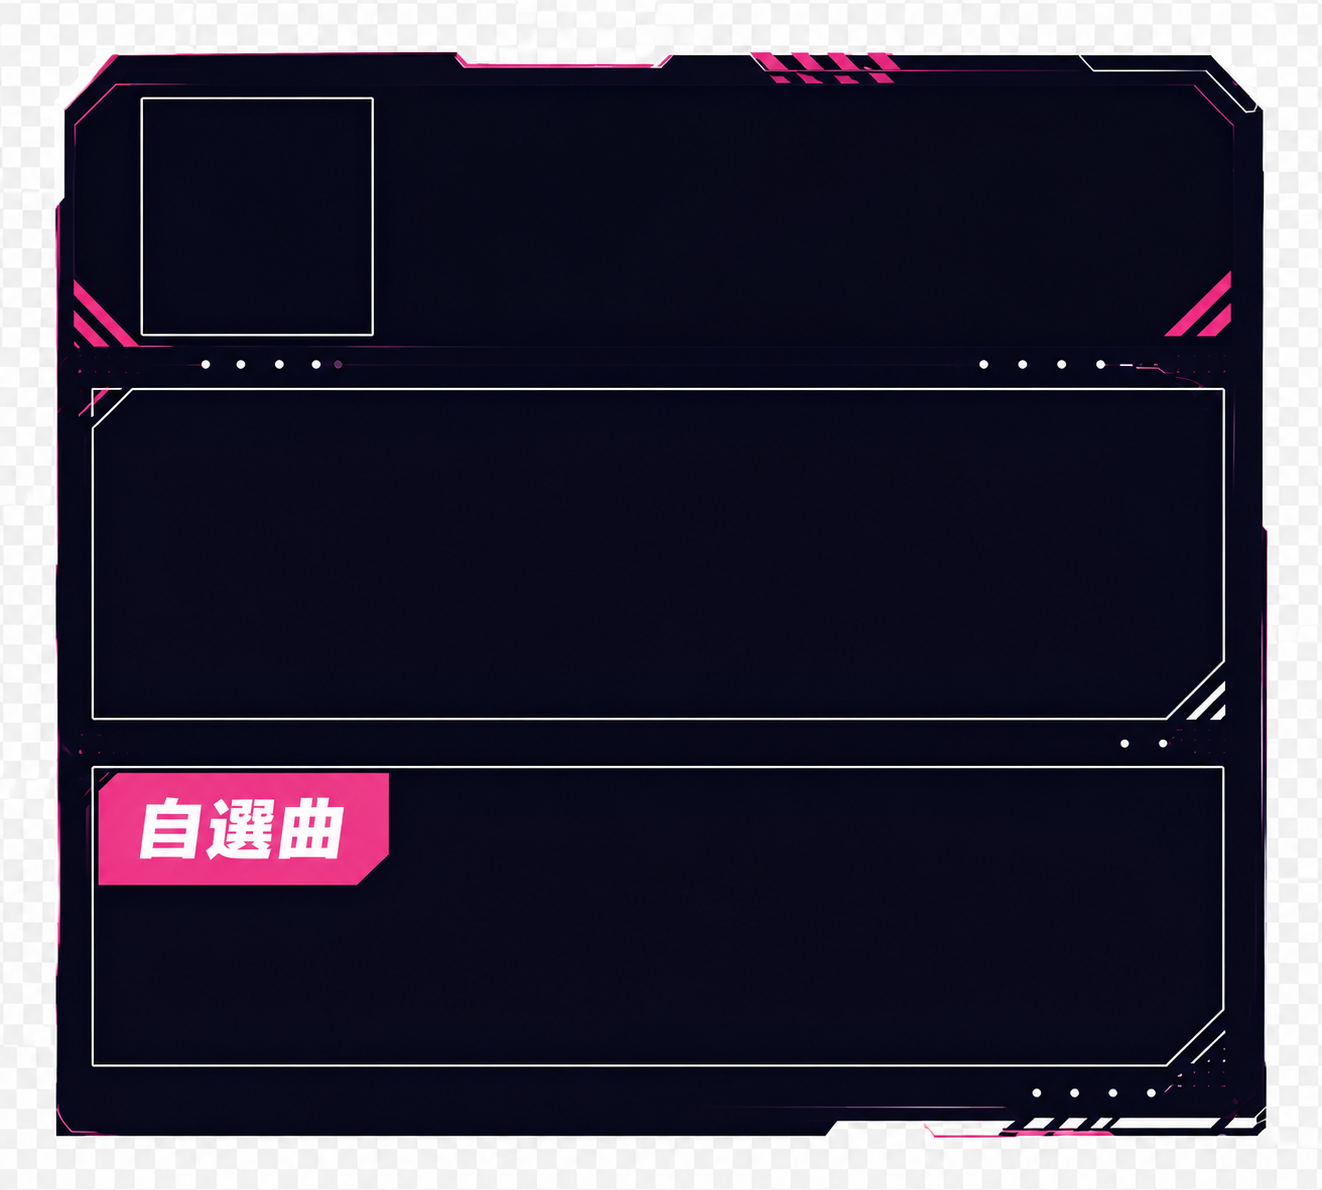
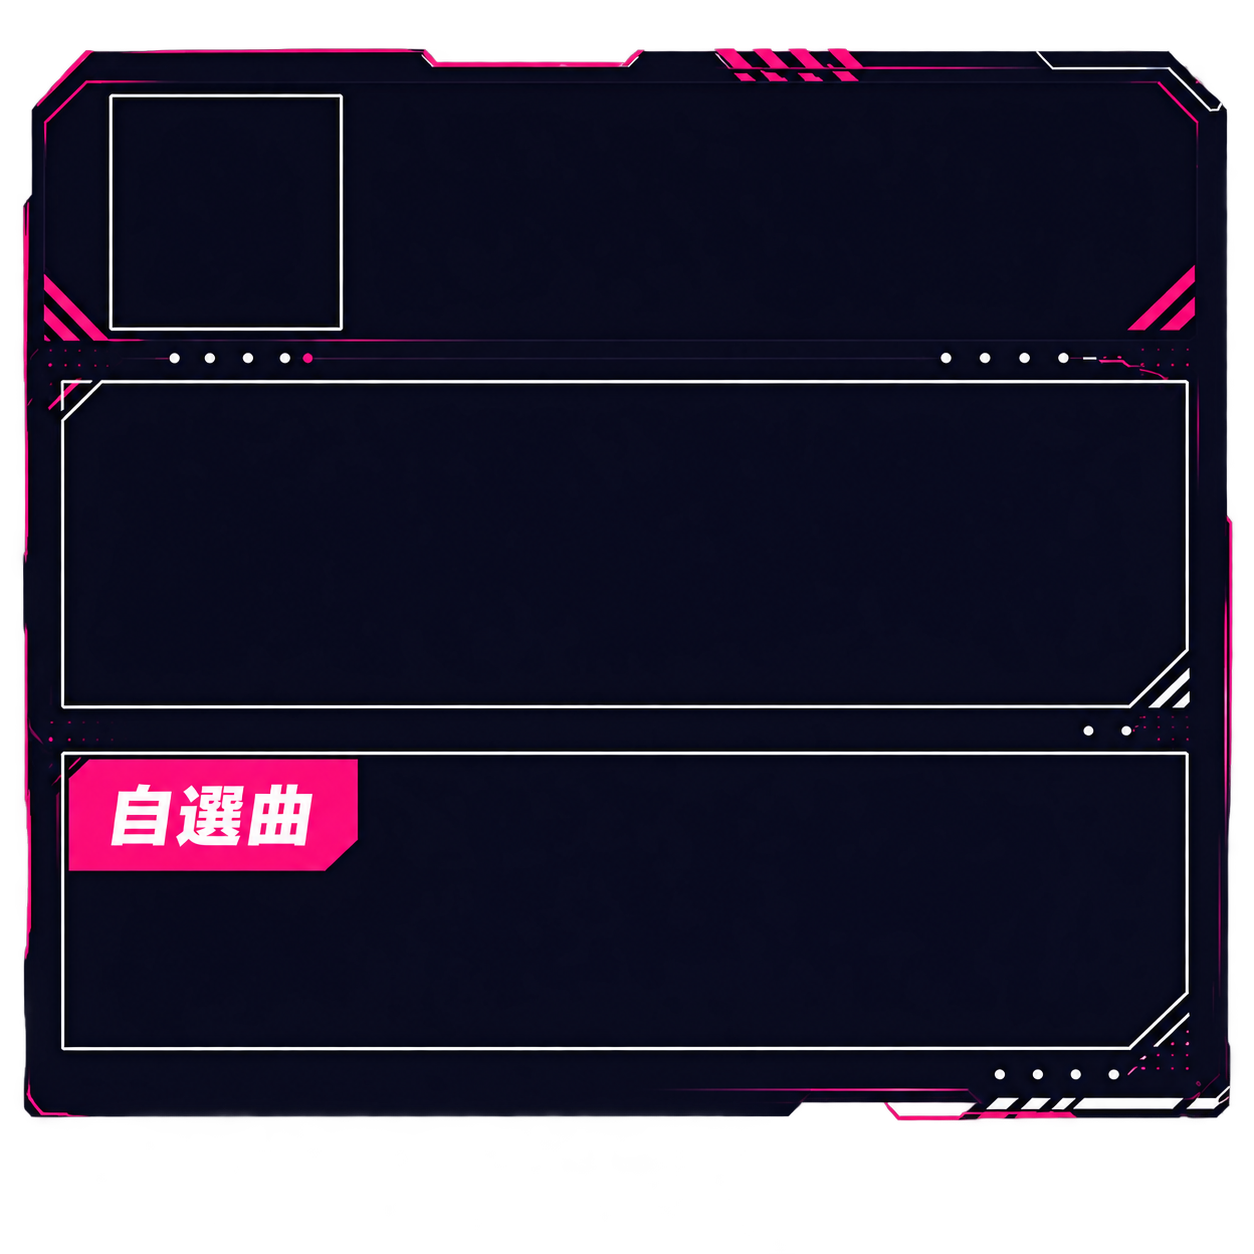
試合紹介画面デザインの修正

Changed region(s): [[0.0, 0.0311, 0.9952, 0.9639]]

diff --git a/src/components/RoundCard.tsx b/src/components/RoundCard.tsx
@@ -11,16 +11,8 @@ export function RoundCard({
     numCurrentDivision,
     numCurrentRound
 }: RoundCardProps) {
-    const tournamentName = tournament.name
-    const teamNameA = tournament.teamA.name
-    const teamNameB = tournament.teamB.name
-    const divisionTitle = tournament.divisions[numCurrentDivision].gameTitle
-    const currentRound = tournament.divisions[numCurrentDivision].rounds[numCurrentRound]
-    const roundName = currentRound.name
-    const namePlayerA = currentRound.playerA.name
-    const namePlayerB = currentRound.playerB.name
-    const songPlayerA = currentRound.playerA.song
-    const songPlayerB = currentRound.playerB.song
+    const division = tournament.divisions[numCurrentDivision]
+    const round = division.rounds[numCurrentRound]
 
     return (
         <div className="pt-12">
@@ -28,7 +20,7 @@ export function RoundCard({
                 bg-[url('/images/bg_cardname.png')] bg-contain bg-no-repeat
                 w-5xl aspect-[6/1] mx-auto flex items-center justify-center">
                 <p className="font-bold text-5xl text-center text-balance">
-                    {tournament.name} {divisionTitle}部門
+                    {tournament.name} {division.gameTitle}部門
                 </p>
             </div>
 
@@ -36,34 +28,42 @@ export function RoundCard({
                 bg-[url('/images/bg_cardname.png')] bg-contain bg-no-repeat
                 w-xl aspect-[6/1] mx-auto flex items-center justify-center">
                 <p className="font-bold text-5xl text-center text-balance">
-                    {roundName}
+                    {round.name}
                 </p>
             </div>
 
-            <div className="flex items-center justify-center pt-8">
+            <div className="flex items-center justify-center">
                 <div className="
                     bg-[url('/images/bg_round_card.png')] bg-contain bg-no-repeat
-                    w-[750px] h-[750px]
+                    w-[700px] h-[700px]
                     [text-shadow:_0_0_4px_red]">
-                    <p className="italic font-mono font-bold text-8xl pt-12 pl-30">
-                        {teamNameA}
+                    <p className="italic font-mono font-bold text-7xl pt-18 pl-30">
+                        {tournament.teamA.name}
                     </p>
-                    <div className="
-                      flex flex-col gap-[45px] pt-[38px] pl-23
-                      font-bold text-5xl">
+                    <div className="flex flex-col gap-[180px] pt-[100px]">
+                        <p className="font-bold text-6xl">
+                            {round.playerA.name}
+                        </p>
+                        <p className="text-4xl">
+                            {round.playerA.song.title} [{round.playerA.song.difficulty}]
+                        </p>
                     </div>
                 </div>
                 <div className="bg-[url('/images/vs.png')] bg-contain bg-no-repeat w-[300px] h-[300px]"></div>
                 <div className="
                     bg-[url('/images/bg_round_card.png')] bg-contain bg-no-repeat
-                    w-[750px] h-[750px]
+                    w-[700px] h-[700px]
                     [text-shadow:_0_0_4px_blue]">
-                    <p className="italic font-mono font-bold text-8xl pt-12 pl-30">
-                        {teamNameB}
+                    <p className="italic font-mono font-bold text-7xl pt-18 pl-30">
+                        {tournament.teamB.name}
                     </p>
-                    <div className="
-                      flex flex-col gap-[45px] pt-[38px] pl-23
-                      font-bold text-5xl">
+                    <div className="flex flex-col gap-[180px] pt-[100px]">
+                        <p className="font-bold text-6xl">
+                            {round.playerB.name}
+                        </p>
+                        <p className="text-4xl">
+                            {round.playerB.song.title} [{round.playerB.song.difficulty}]
+                        </p>
                     </div>
                 </div>
             </div>

diff --git a/src/App.tsx b/src/App.tsx
@@ -240,67 +240,52 @@ function App() {
   const streamingView = () => {
     switch (selectState) {
       case "division_card":
-        return DivisionCard({
-          tournament, numCurrentDivision
-        })
+        return <DivisionCard
+          tournament={tournament}
+          numCurrentDivision={numCurrentDivision}
+        />
 
       case "round_card":
-        return RoundCard({
-          tournament,
-          numCurrentDivision,
-          numCurrentRound
-        })
-
-      case "not_started":
-        return SongSelector({
-          tournament,
-          numCurrentDivision,
-          numCurrentRound,
-          song
-        })
-
-      case "spinning":
-        return SongSelector({
-          tournament,
-          numCurrentDivision,
-          numCurrentRound,
-          song
-        })
-
-      case "displaying":
-        return SongSelector({
-          tournament,
-          numCurrentDivision,
-          numCurrentRound,
-          song
-        })
+        return <RoundCard
+          tournament={tournament}
+          numCurrentDivision={numCurrentDivision}
+          numCurrentRound={numCurrentRound}
+        />
 
       case "banning":
-        return ShowSelectedSongs({
-          selectedSongs
-        })
+        return <ShowSelectedSongs
+          selectedSongs={selectedSongs}
+        />
 
       case "showResult":
-        return ShowRoundResult({
-          tournament,
-          numCurrentDivision,
-          numCurrentRound,
-          currentRoundState
-        })
+        return <ShowRoundResult
+          tournament={tournament}
+          numCurrentDivision={numCurrentDivision}
+          numCurrentRound={numCurrentRound}
+          currentRoundState={currentRoundState}
+        />
+
+      default:
+        return <SongSelector
+          tournament={tournament}
+          numCurrentDivision={numCurrentDivision}
+          numCurrentRound={numCurrentRound}
+          song={song}
+        />
     }
   }
 
   const ControlView = () => {
-    return ControlPanel({
-      tournament,
-      tournamentState,
-      setTournamentState,
-      numCurrentDivision,
-      setNumCurrentDivision,
-      numCurrentRound,
-      setNumCurrentRound,
-      selectSong
-    })
+    return <ControlPanel
+      tournament={tournament}
+      tournamentState={tournamentState}
+      setTournamentState={setTournamentState}
+      numCurrentDivision={numCurrentDivision}
+      setNumCurrentDivision={setNumCurrentDivision}
+      numCurrentRound={numCurrentRound}
+      setNumCurrentRound={setNumCurrentRound}
+      selectSong={selectSong}
+    />
   }
 
   return (
